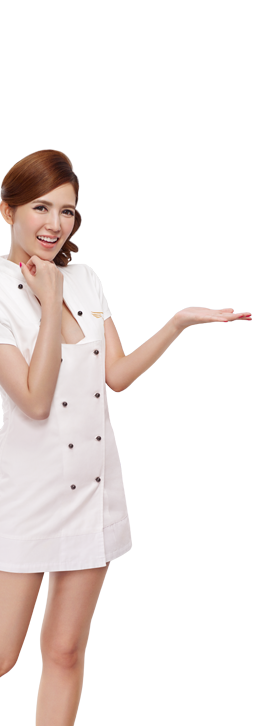
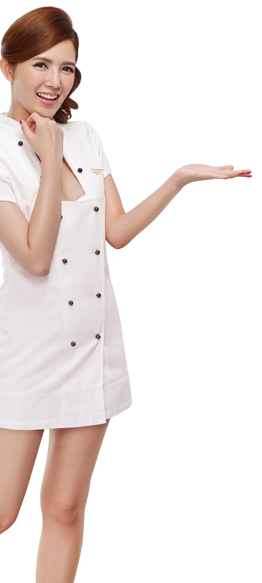
last

diff --git a/web-server/public/login.html b/web-server/public/login.html
@@ -15,15 +15,92 @@
 				<script src="http://html5shiv.googlecode.com/svn/trunk/html5.js"></script>
 			<![endif]–>
 			
-			
-			<link href="styles/reset.css" rel="stylesheet" type="text/css">
-			<link href="styles/style.css" rel="stylesheet" type="text/css">
+			<link href="styles/sl.css" rel="stylesheet" type="text/css">
+
+			<!-- <link href="styles/reset.css" rel="stylesheet" type="text/css"> -->
+			<!-- <link href="styles/style.css" rel="stylesheet" type="text/css"> -->
 			<script src="https://code.jquery.com/jquery-1.11.3.js"></script>
 
 
 		    <script src="js/lib/socket.io/socket.io.js"></script>	
 		    <script src="js/game.js"></script>	
+		    <style type="text/css">
+		    	#girl {
+		    		width: 50%;
+		    		position: absolute;
+		    		display: block;
+		    		/*z-index: 1;*/
+		    		bottom: 0;
+		    		left: 0;
+		    	}
+		    	#girl_right {
+		    		width: 40%;
+		    		position: absolute;
+		    		display: block;
+		    		/*z-index: 1;*/
+		    		bottom: 0;
+		    		right: 0;
+		    	}
 
+
+		    	
+		    	@media screen and (max-width: 399px) {
+					#input {
+			    		position: absolute;		    		
+			    		bottom: 0;
+			    		height: 53%;
+			    		width: 100%;
+			    	}		    		
+					#code {
+			    		display: block;		
+			    		margin: auto;
+			    		/*width: 100%;*/
+			    		width: 230px;
+			    		height: 32px;
+			    		background-image: url(images/number.png);
+			    		background-repeat: no-repeat;
+			    		background-size: 100%;
+			    		border: 0;
+			    		background-color: transparent;
+			    		padding-left: 70px;
+			    		padding-right: 10px;
+			    		text-align: center;
+			    	}
+			    	#login {
+			    		display: block;
+			    		margin: 20px auto;
+			    		max-width: 30%;  
+			    	}									     
+				}
+				@media screen and (min-width: 400px) {
+					#input {
+			    		position: absolute;		    		
+			    		bottom: 0;
+			    		height: 50%;
+			    		width: 100%;
+			    	}
+					#code {
+			    		display: block;		
+			    		margin: auto;
+			    		/*width: 100%;*/
+			    		width: 280px;
+			    		height: 40px;
+			    		background-image: url(images/number.png);
+			    		background-repeat: no-repeat;
+			    		background-size: 100%;
+			    		border: 0;
+			    		background-color: transparent;
+			    		padding-left: 90px;
+			    		padding-right: 10px;
+			    		text-align: center;
+			    	}
+			    	#login {
+			    		display: block;
+			    		margin: 20px auto;
+			    		max-width: 30%;  
+			    	}					
+				}
+		    </style>
 		</head>
 		<body>
 			<script type="text/javascript">
@@ -42,13 +119,20 @@
 				}
 			</script>
 			<div id="container">
-				<img id="girl" src="images/girl.png">
-				<img id="girl_right" src="images/girl_right.png">
-				<div id="inputText">
-					<input type="text" id="pinCode">
-					<button id="login" onclick="auth()"></button>
-				</div>
+        		<img src="../images/background.png"/>    
+        			<img id="girl" src="images/girl.png">  
+        			<img id="girl_right" src="images/girl_right.png">
+
+					<div id="input">
+							<input id="code" type="text">
+
+						<!-- <div id="code_bg" src="images/number.png"> -->
+						<!-- </div> -->
+						<img id="login" src="images/ok.png" onclick="auth()">					
+						<!-- <button id="login" onclick="auth()"></button> -->
+					</div>        
+
 			</div>
-			<img id="im" src="images/footer.png">			
+			<img id="footer" src="images/footer.png">			
 		</body>
 	</html>

diff --git a/web-server/public/join.html b/web-server/public/join.html
@@ -24,11 +24,10 @@
     <style type="text/css">
 
     #center {
-        position: relative;
-        top: 200px;
-        /*left: 5%;*/
-        width: 95%;
-        margin: 0 auto;
+        position: absolute;
+        width: 100%;
+        margin: auto;
+        bottom: 0;
     }
     
     #upload {
@@ -59,7 +58,7 @@
         background: url(../images/join/name.png) 0 0 no-repeat;
         background-size: 100%;        
         margin: auto;
-        max-width: 330px;
+        max-width: 300px;
         height: 50px;
         margin: 5px auto;
     }
@@ -68,7 +67,7 @@
         background: url(../images/join/table.png) 0 0 no-repeat;
         background-size: 100%;        
         margin: auto;
-        max-width: 330px;
+        max-width: 300px;
         height: 50px;
         margin: 5px auto;
     }
@@ -89,13 +88,8 @@
         height: 45px;
         text-align: center;
         background-color: transparent;
-        /*border-top-right-radius: 10px;*/
-        /*border-bottom-right-radius: 10px;*/
         padding: 0 10px;
         border: 0;
-        color: #633c1b;
-        font-size: 18px;
-        font-weight: bold;
     }
     
     button {
@@ -119,23 +113,9 @@
 
     function readURL(input) {
         console.log(input.files);
-
-
-
-
-
         if (input.files && input.files[0]) {
-
-            ImageTools.resize(input.files[0], {
-                width: 200, // maximum width
-                height: 200 // maximum height
-            }, function(blob, didItResize) {
-                // didItResize will be true if it managed to resize it, otherwise false (and will return the original file as 'blob')
-                // document.getElementById('preview').src = window.URL.createObjectURL(blob);
-
+            ImageTools.resize(input.files[0], {"width": 200, "height": 200}, function(blob, didItResize) {
                 console.log(blob);
-                // avatar = window.URL.createObjectURL(blob);
-
                 var reader = new FileReader();
                 reader.onload = function(e) {
                     avatar = e.target.result;
@@ -146,27 +126,7 @@
                     $('#blah').attr('src', avatar); 
                 };
                 reader.readAsDataURL(blob);
-
-                // console.log(avatar);
-                // $('#blah').attr('src', avatar); 
-
-                // you can also now upload this blob using an XHR.
             });
-
-
-            // var reader = new FileReader();
-
-            // reader.onload = function(e) {
-            //     console.log(e);
-            //     console.log('onload : ',e.target.result);
-            //     avatar = e.target.result;
-
-            //     // localStorage.setItem('avatar',avatar);
-            //     // window.location.href = "/IR/";
-            //     $('#blah').attr('src', avatar); 
-            // };
-
-            // reader.readAsDataURL(input.files[0]);
         }
     }
 

diff --git a/web-server/public/play.html b/web-server/public/play.html
@@ -20,30 +20,29 @@
     <script type="text/javascript" src="js/game.js"></script>
     <style type="text/css">
 
-        #center {
-            width: 100%;
-            height: vh;
+     /*   #center {
+            position: absolute;
         }
-        #girl {
-            position: fixed;
+*/        #girl {
+            position: absolute;
             right: 0;
+            bottom: 0;            
             /*width: 60%;*/
             /*max-width: 280px;*/
-            max-height: 100%;
+            max-height: 80%;
             max-width: 100%;
             display: block;
-            bottom: 0;
         }
         #btn_left {
             display: block;            
-            position: fixed;
+            position: absolute;
             left: 0;
             bottom: 10%;
             max-width: 45%
         }
         #btn_right {
             display: block;            
-            position: fixed;
+            position: absolute;
             right: 0;
             bottom: 10%;
             max-width: 45%            
@@ -54,11 +53,11 @@
 <body>
     <div id="container">
         <img src="../images/background.png"/>    
-        <div id="center">
+        <!-- <div id="center"> -->
             <img id="girl" src="images/gameGirl.png">
             <img id="btn_left" src="images/left.png">
             <img id="btn_right" src="images/right.png">            
-        </div>
+        <!-- </div> -->
     </div>
     <img id="footer" src="images/footer.png">
 </body>

diff --git a/web-server/public/scripts/fb.js b/web-server/public/scripts/fb.js
@@ -63,17 +63,17 @@ MFB.getHeadImageUrl = function (fbid) {
     return link;
 }
 
-MFB.seedUI = function () {
+MFB.seedUI = function (callback) {
     var publish = {
         // display: 'iframe',
         method: 'feed',
-        picture: 'http://i.ytimg.com/vi/AaOuMOOsUzs/maxresdefault.jpg',
-        link: 'https://www.facebook.com/ScottishLeaderTW/?fref=ts',
-        name: '仕高利達!',
+        picture: 'http://52.11.186.93:3000/images/logo.jpg',
+        link: 'https://developers.facebook.com/docs/',
+        name: '仕高利達 怎麼搭都好吃',
         caption: 'SCOTTISH LEADER',
-        description: '怎麼搭都好吃'
+        description: '挑戰最高1500元歡樂加菜金!!'
     };
-    FB.ui(publish, null);
+    FB.ui(publish, callback);
 }
 
 window.fbAsyncInit = function() {
@@ -83,10 +83,10 @@ window.fbAsyncInit = function() {
 
         // test
         // appId : '312247938844229',
-        
+
         cookie: true, // enable cookies to allow the server to access 
         xfbml: true, // parse social plugins on this page
-        version: 'v2.2' // use version 2.2
+        version: 'v2.5' // use version 2.2
     });
 };
 

diff --git a/web-server/public/styles/sl.css b/web-server/public/styles/sl.css
@@ -1,29 +1,40 @@
+* {
+    box-sizing: border-box;
+}
+
 body {
-    height: 100%;    
+    /*height: 100%;    */
     margin: 0 auto;
 }
 
 #container
 {
+    position: relative;
     width: 100%; 
-    height: 100vh;
     margin: 0 auto;
     background-color: #714d15;
+    /*display: inline-block;*/
 }
 
-#container>img
+#container > img:first-child
 {
-    position: absolute;
-    width: 100vw;
+    /*position: absolute;*/
+    width: 100%;
     display: block;
     z-index: 0;
 }
 
 #footer
 {
-    position: fixed;
+    position: relative;
     bottom: 0px;
     width: 100%;
     z-index: 999;
     display: block;
+}
+
+input {
+    color: #633c1b;
+    font-size: 18px;
+    font-weight: bold;
 }

diff --git a/web-server/public/fb_share.html b/web-server/public/fb_share.html
@@ -63,7 +63,12 @@
 <body>
     <script type="text/javascript">
     var share = function() {
-        MFB.seedUI();
+        MFB.seedUI(function(response){
+            console.log(response);
+            if (response && response.post_id) {
+                // window.location.href = "/join_ok.html";
+            }
+        });
     };
 
     var cancel = function() {
